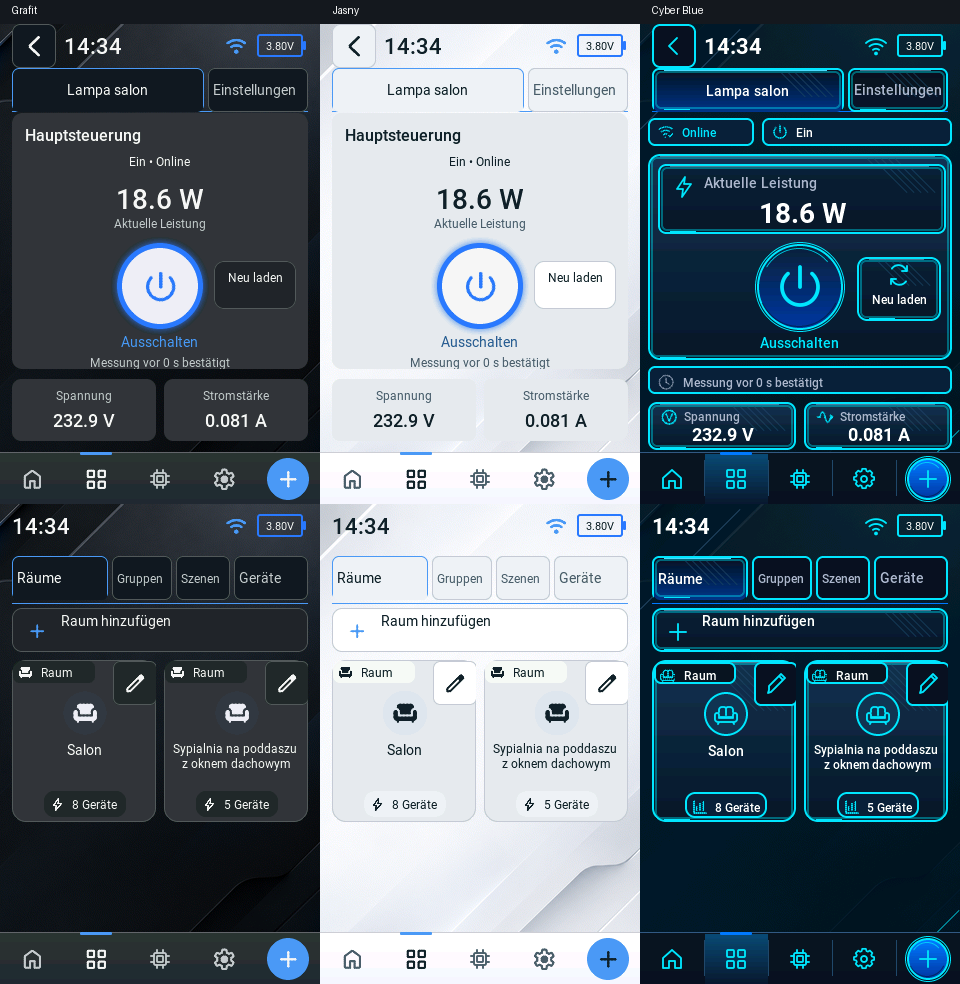
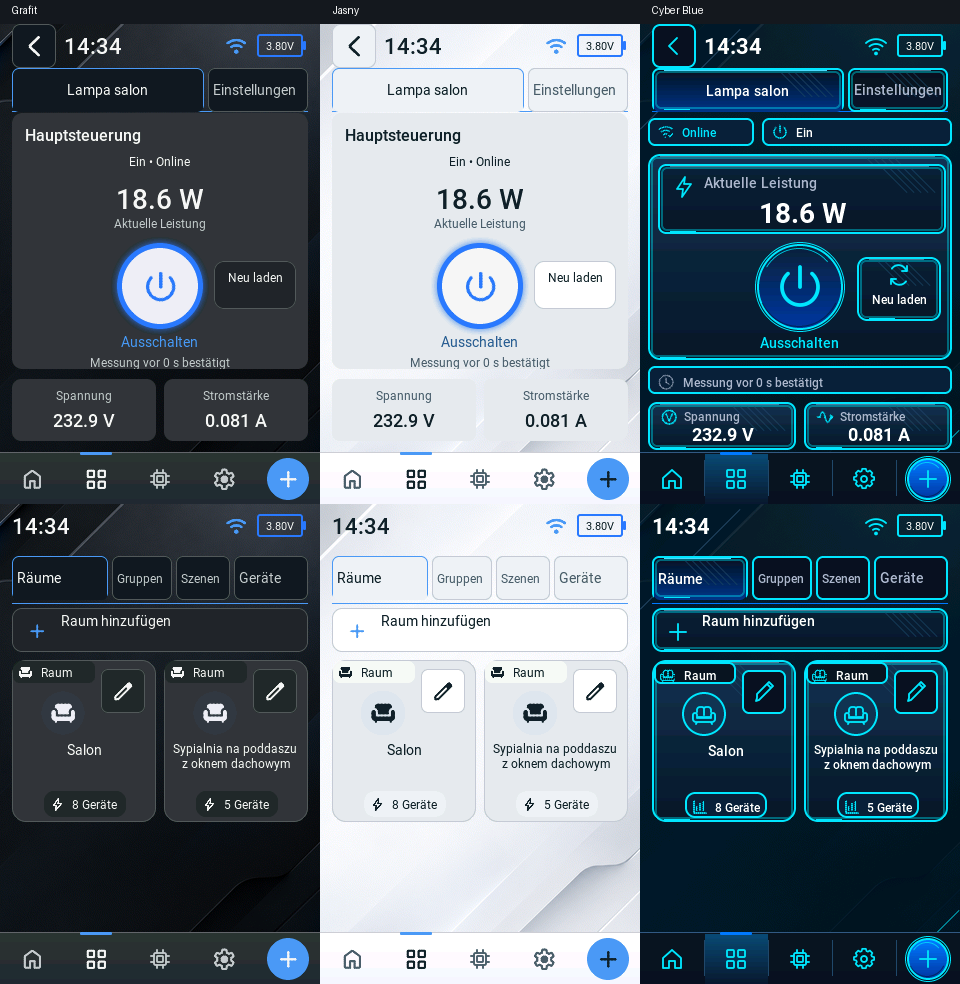
Inset room edit controls within the tile frame

diff --git a/components/dsr_ui/dsr_ui_mobile.c b/components/dsr_ui/dsr_ui_mobile.c
@@ -501,7 +501,7 @@ static lv_obj_t *room_card(lv_obj_t *parent,unsigned i,int x,int y,int width,int
         lv_obj_t *window=dsr_sc_panel(card,0,0,width,height-90,DSR_SC_CARD,DSR_SC_RADIUS);lv_obj_set_style_clip_corner(window,true,0);lv_obj_t *image=lv_image_create(window);lv_image_set_src(image,&photos[i]);
         uint32_t scale=(uint32_t)width*256/photos[i].header.w,vertical=(uint32_t)(height-90)*256/photos[i].header.h;if(vertical>scale)scale=vertical;
         lv_image_set_scale(image,scale);lv_image_set_antialias(image,true);lv_obj_center(image);
-    }else{lv_obj_t *thumb=dsr_sc_panel(card,(width-44)/2,30,44,44,0x303943,LV_RADIUS_CIRCLE);dsr_sc_icon_centered(thumb,room_icon(i),28,dsr_sc_style()==DSR_SC_STYLE_CYBER_BLUE?DSR_SC_GLOW:0xe8edf2);}
+    }else{lv_obj_t *thumb=dsr_sc_panel(card,(width-88)/2,30,44,44,0x303943,LV_RADIUS_CIRCLE);dsr_sc_icon_centered(thumb,room_icon(i),28,dsr_sc_style()==DSR_SC_STYLE_CYBER_BLUE?DSR_SC_GLOW:0xe8edf2);}
     lv_obj_t *tag=dsr_sc_panel(card,0,0,82,22,0x25292b,7);lv_obj_set_style_bg_opa(tag,220,0);dsr_sc_icon(tag,room_icon(i),4,3,16,dsr_sc_icon_accent());dsr_sc_text(tag,"Pokój",28,4,48,&dsr_roboto_12,DSR_SC_TEXT);
     const char *room=dsr_sc_name(model.rooms[i].name);const lv_font_t *font=&dsr_roboto_14;lv_point_t size;
     lv_text_get_size(&size,dsr_sc_tr(room),dsr_sc_font(font),0,0,width-16,LV_TEXT_FLAG_NONE);if(size.y>46)font=&dsr_roboto_12;
@@ -512,7 +512,7 @@ static lv_obj_t *room_card(lv_obj_t *parent,unsigned i,int x,int y,int width,int
     char text[32];if(count&&complete)snprintf(text,sizeof(text),"%.1f W",power);else snprintf(text,sizeof(text),"%u %s",count,dsr_sc_tr("urz."));
     dsr_sc_icon(badge,DSR_ICON_ENERGY,5,5,16,dsr_sc_icon_accent());center(dsr_sc_text(badge,text,23,6,55,&dsr_roboto_12,DSR_SC_TEXT));
     if(page==DSR_MOBILE_ROOMS){
-        lv_obj_t *edit=icon_button(card,DSR_ICON_EDIT,width-44,0,44,0x25292b,edit_room,(void *)(uintptr_t)model.rooms[i].id);
+        lv_obj_t *edit=icon_button(card,DSR_ICON_EDIT,width-56,8,44,0x25292b,edit_room,(void *)(uintptr_t)model.rooms[i].id);
         if(model.demo||!model.rooms[i].id||!actions.edit_room)lv_obj_add_state(edit,LV_STATE_DISABLED);
     }
     return card;

diff --git a/docs/DEV_0_7_69_PL.md b/docs/DEV_0_7_69_PL.md
@@ -18,7 +18,8 @@ wchodzą do firmware ani tego commitu.
   po prawej, bez powtórzonej ikony i pozycji zaworu na karcie TRV; zawór nadal
   w szczegółach. Brak pustego „Keine weiteren Messwerte”; rzeczywiste 0 lx,
   temperatury i baterie pozostają widoczne. Długie nazwy zwiększają wysokość.
-- Ikony pokoju, jego etykieta i edycja mają rozdzielone obszary. Nazwy pokojów
+- Ikony pokoju, jego etykieta i edycja mają rozdzielone obszary. Przycisk edycji
+  jest odsunięty 12 px od prawej i 8 px od górnej krawędzi kafelka. Nazwy pokojów
   są zawijane i pozostają tekstem użytkownika, bez tłumaczenia np. „Salon”.
 - Wspólna animacja rolety i obsługa podglądu w trzech skórkach. Nagłówek bez
   ołówka, wyśrodkowany większy tytuł, odstęp od powrotu, czytelna skala.
